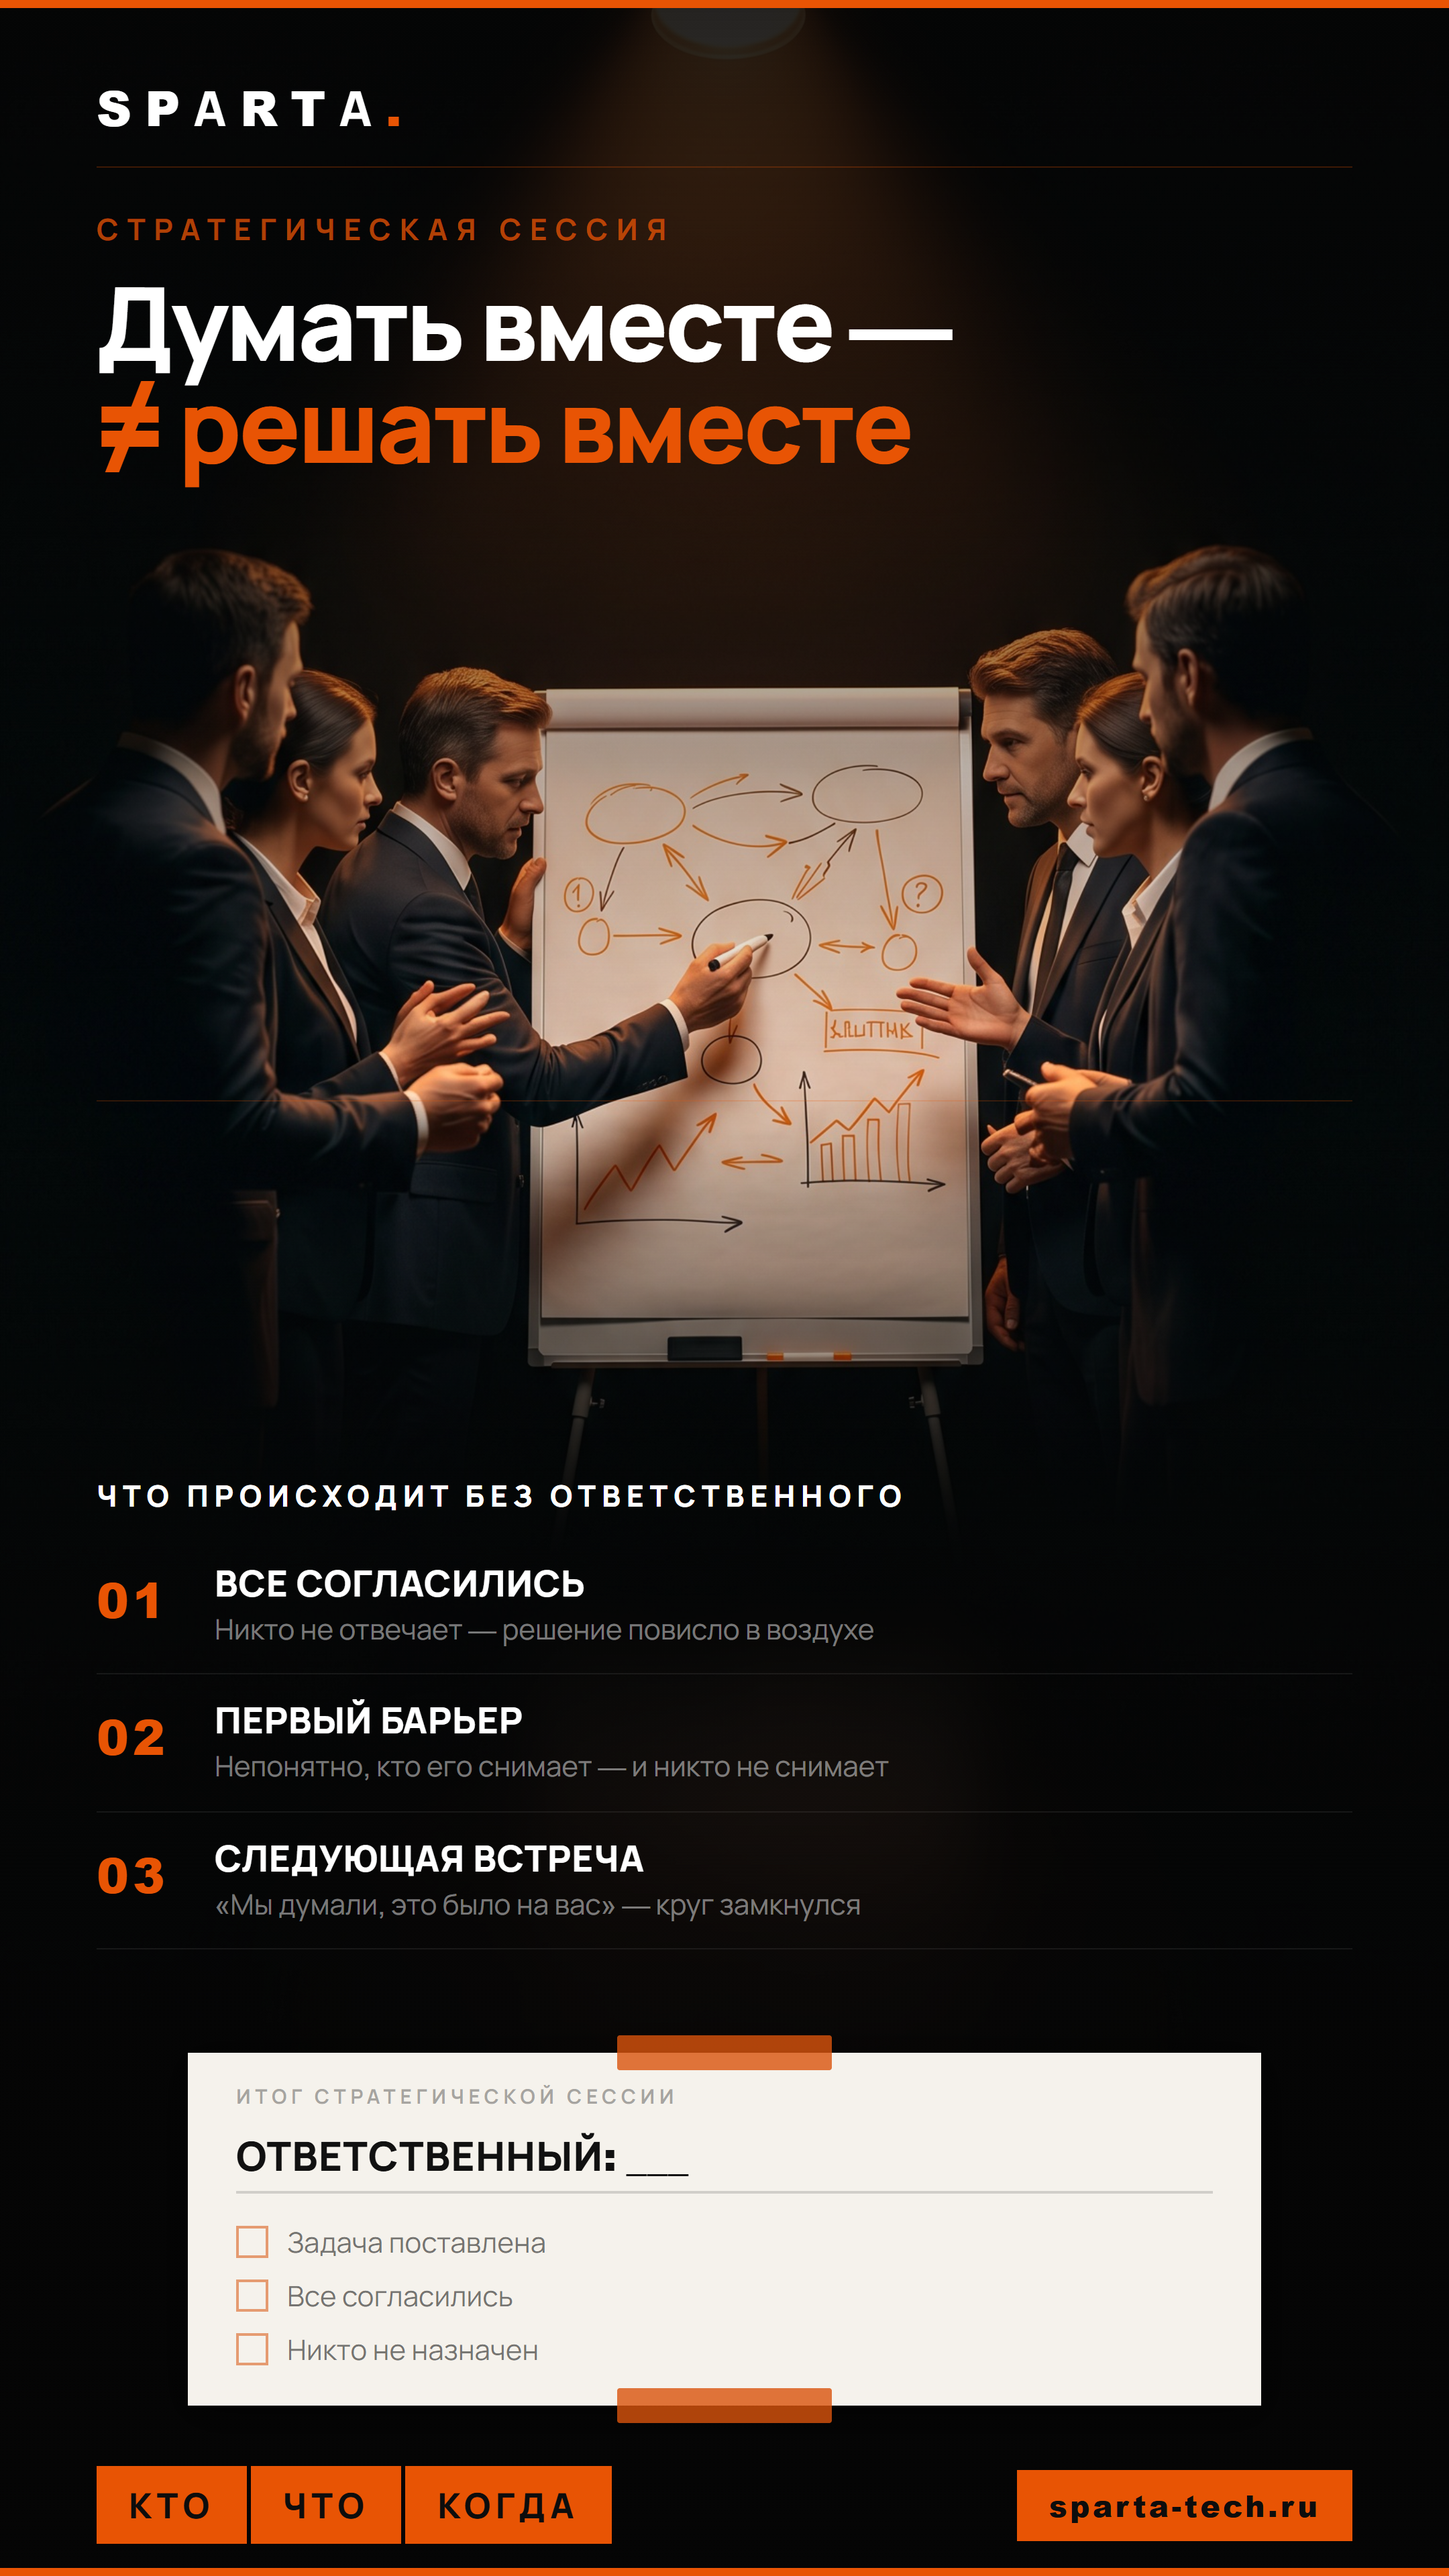
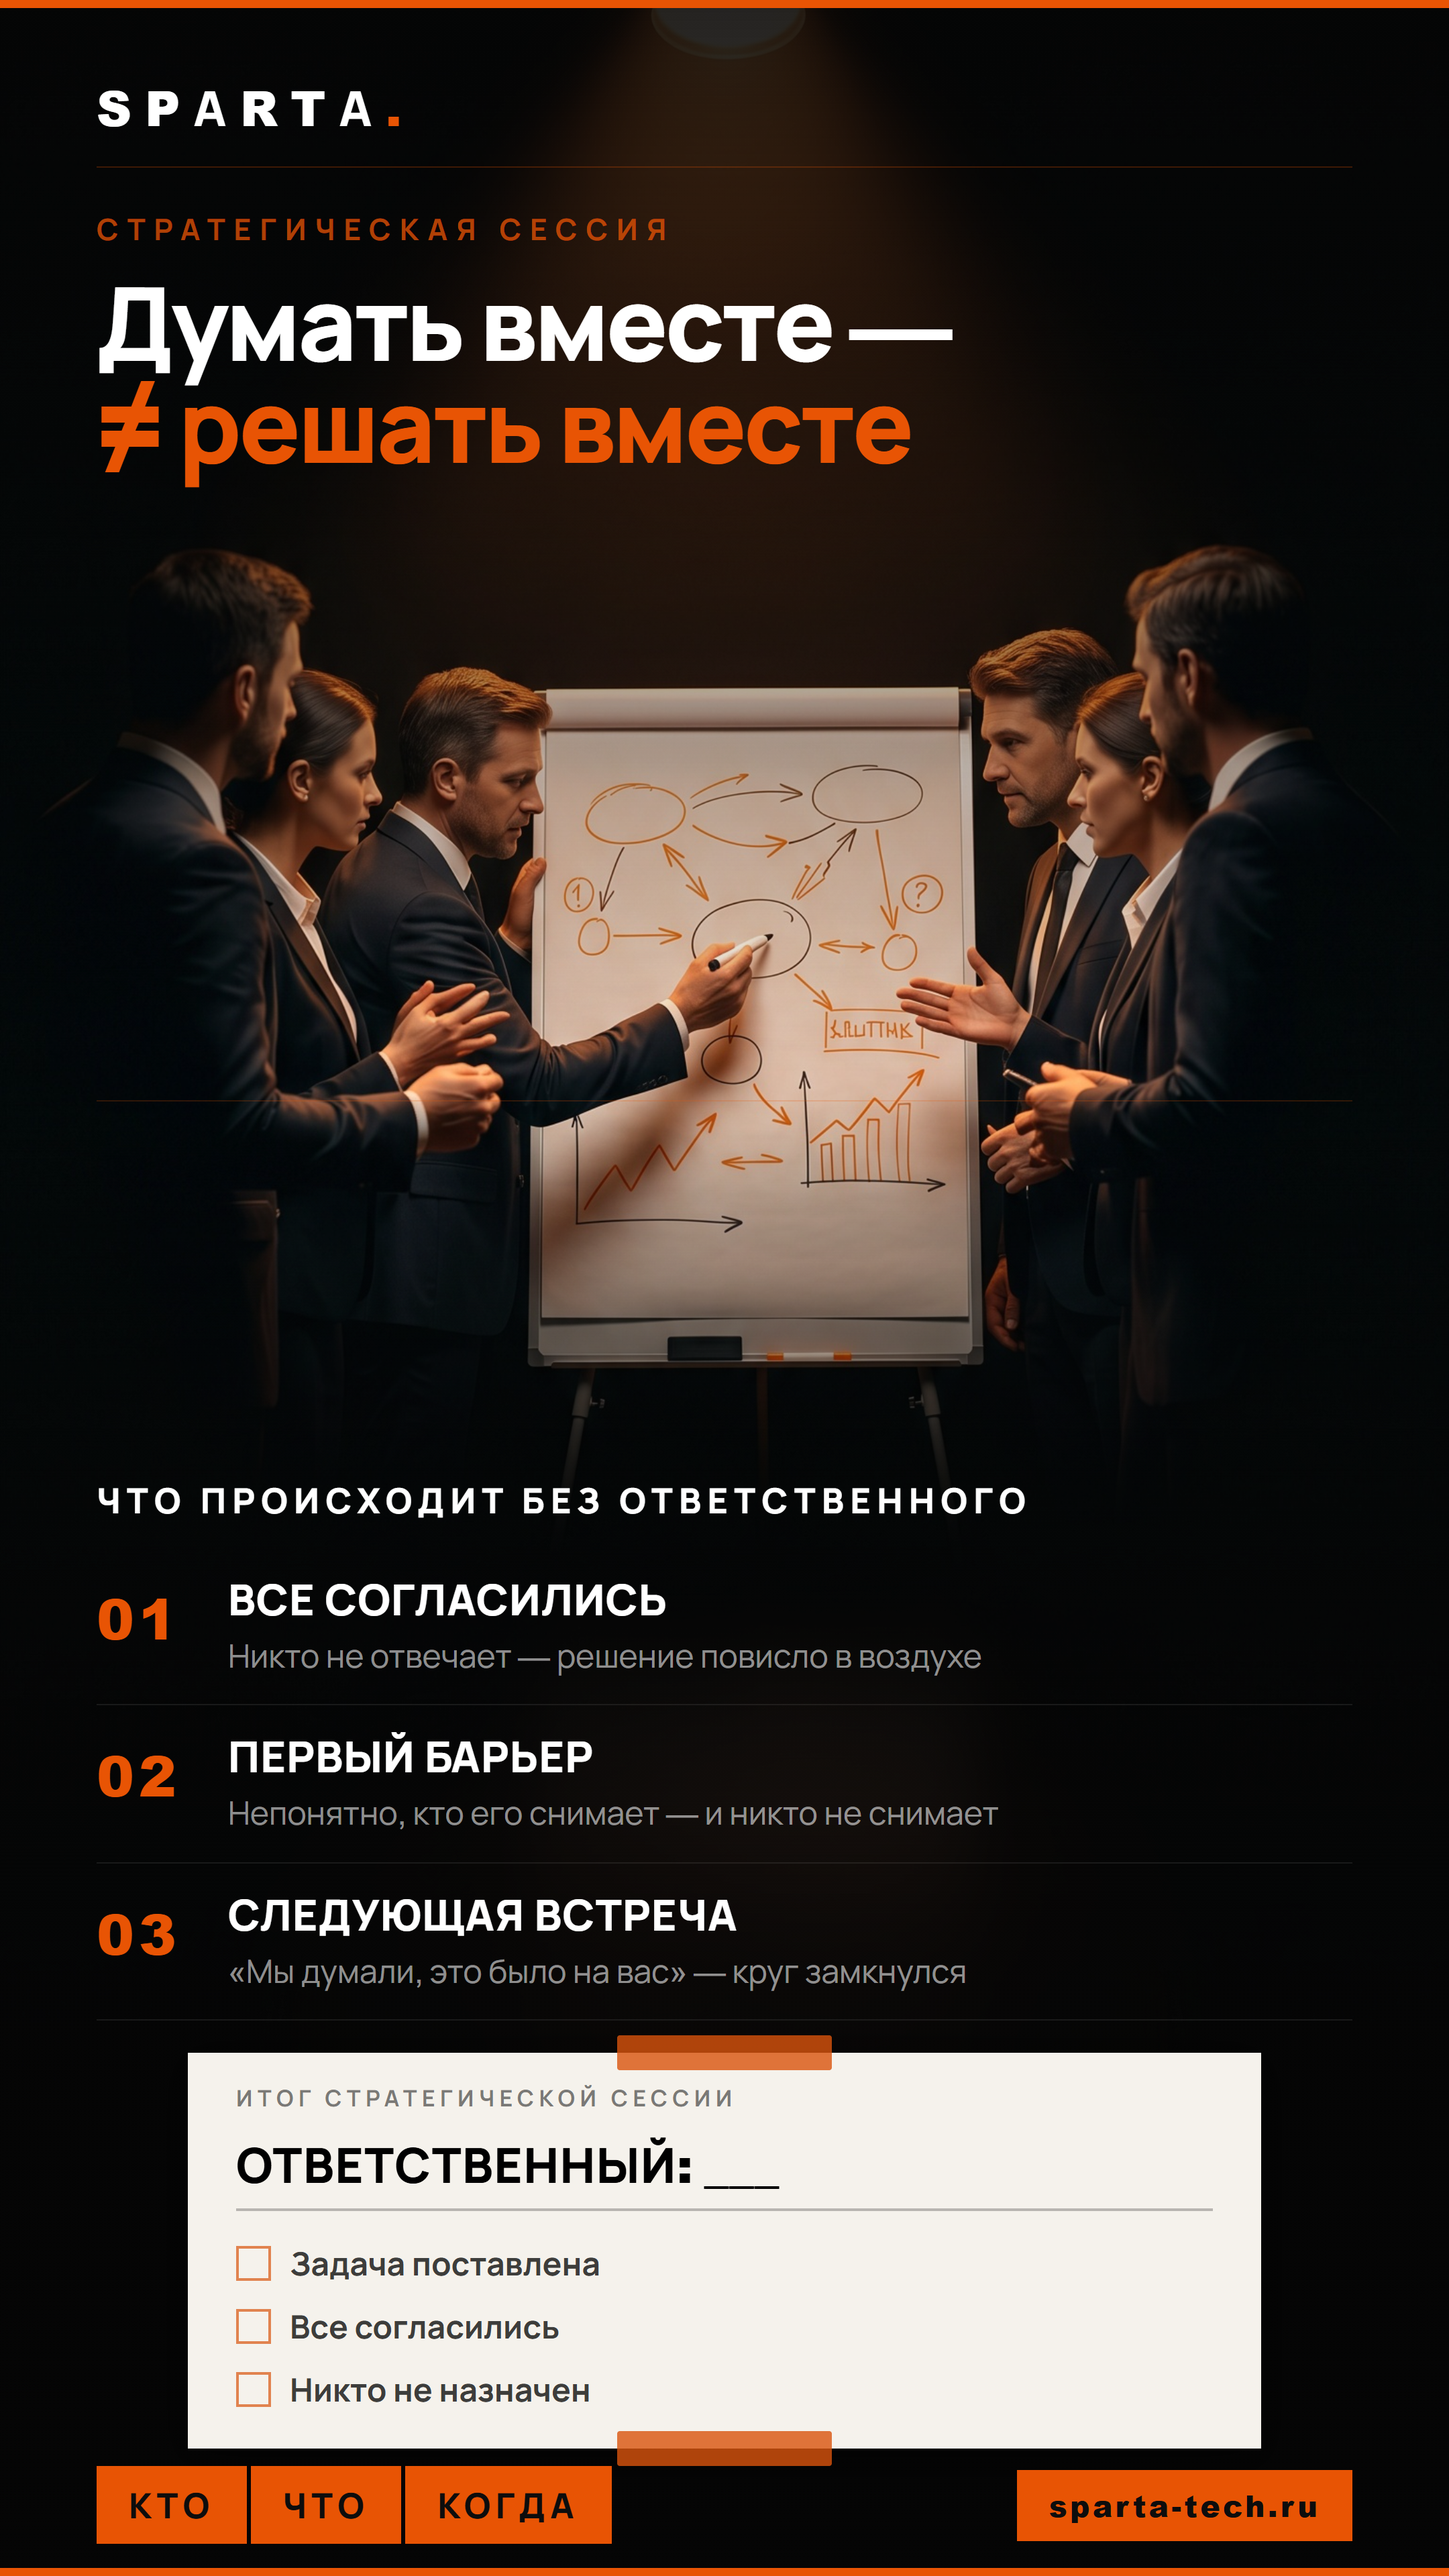
posts: увеличен текст треков и рамки поста #02 — Sparta

diff --git a/projects/Sparta/posts/drafts/05_05_2026-1/image4_composite.html b/projects/Sparta/posts/drafts/05_05_2026-1/image4_composite.html
@@ -81,26 +81,26 @@
   /* Три пункта */
   .tracks { position: absolute; top: 1100px; left: 72px; right: 72px; z-index: 10; }
   .tracks-label {
-    font-size: 22px; font-weight: 800; letter-spacing: 0.20em;
-    text-transform: uppercase; color: #FFFFFF; margin-bottom: 16px;
+    font-size: 26px; font-weight: 800; letter-spacing: 0.18em;
+    text-transform: uppercase; color: #FFFFFF; margin-bottom: 18px;
   }
   .track {
-    display: flex; align-items: flex-start; gap: 20px;
-    padding: 18px 0; border-bottom: 1px solid rgba(255,255,255,0.07);
+    display: flex; align-items: flex-start; gap: 22px;
+    padding: 20px 0; border-bottom: 1px solid rgba(255,255,255,0.08);
   }
-  .track:first-child { border-top: 1px solid rgba(255,255,255,0.07); }
+  .track:first-child { border-top: 1px solid rgba(255,255,255,0.08); }
   .track-num {
-    font-size: 36px; font-weight: 800; letter-spacing: 0.08em;
-    color: #E85404; width: 68px; flex-shrink: 0; padding-top: 2px;
+    font-size: 42px; font-weight: 800; letter-spacing: 0.08em;
+    color: #E85404; width: 76px; flex-shrink: 0; padding-top: 2px;
   }
   .track-title {
-    font-size: 27px; font-weight: 800; color: #FFFFFF;
+    font-size: 32px; font-weight: 800; color: #FFFFFF;
     text-transform: uppercase; letter-spacing: 0.02em;
-    line-height: 1.15; margin-bottom: 5px;
+    line-height: 1.15; margin-bottom: 6px;
   }
   .track-desc {
-    font-size: 21px; font-weight: 400;
-    color: rgba(255,255,255,0.46); line-height: 1.40;
+    font-size: 24px; font-weight: 400;
+    color: rgba(255,255,255,0.55); line-height: 1.40;
   }
 
   /* Лист бумаги */
@@ -120,26 +120,26 @@
     background: rgba(217,84,13,0.80); border-radius: 2px;
   }
   .paper-label {
-    font-size: 15px; font-weight: 700; letter-spacing: 0.22em;
-    text-transform: uppercase; color: rgba(0,0,0,0.32); margin-bottom: 12px;
+    font-size: 17px; font-weight: 700; letter-spacing: 0.22em;
+    text-transform: uppercase; color: rgba(0,0,0,0.50); margin-bottom: 12px;
   }
   .paper-field {
-    font-size: 30px; font-weight: 800; color: #111111;
-    letter-spacing: 0.02em; margin-bottom: 6px;
+    font-size: 36px; font-weight: 800; color: #000000;
+    letter-spacing: 0.02em; margin-bottom: 8px;
   }
   .paper-line {
-    height: 2px; background: rgba(0,0,0,0.15); margin-bottom: 22px;
+    height: 2px; background: rgba(0,0,0,0.25); margin-bottom: 22px;
   }
   .paper-checks {
-    display: flex; flex-direction: column; gap: 12px;
+    display: flex; flex-direction: column; gap: 14px;
   }
   .paper-check {
     display: flex; align-items: center; gap: 14px;
-    font-size: 21px; font-weight: 400; color: rgba(0,0,0,0.52);
+    font-size: 24px; font-weight: 600; color: rgba(0,0,0,0.75);
   }
   .paper-check-box {
-    width: 24px; height: 24px; flex-shrink: 0;
-    border: 2px solid rgba(217,84,13,0.55);
+    width: 26px; height: 26px; flex-shrink: 0;
+    border: 2px solid rgba(217,84,13,0.70);
   }
   .tape-bottom {
     position: absolute; bottom: -13px; left: 50%;
